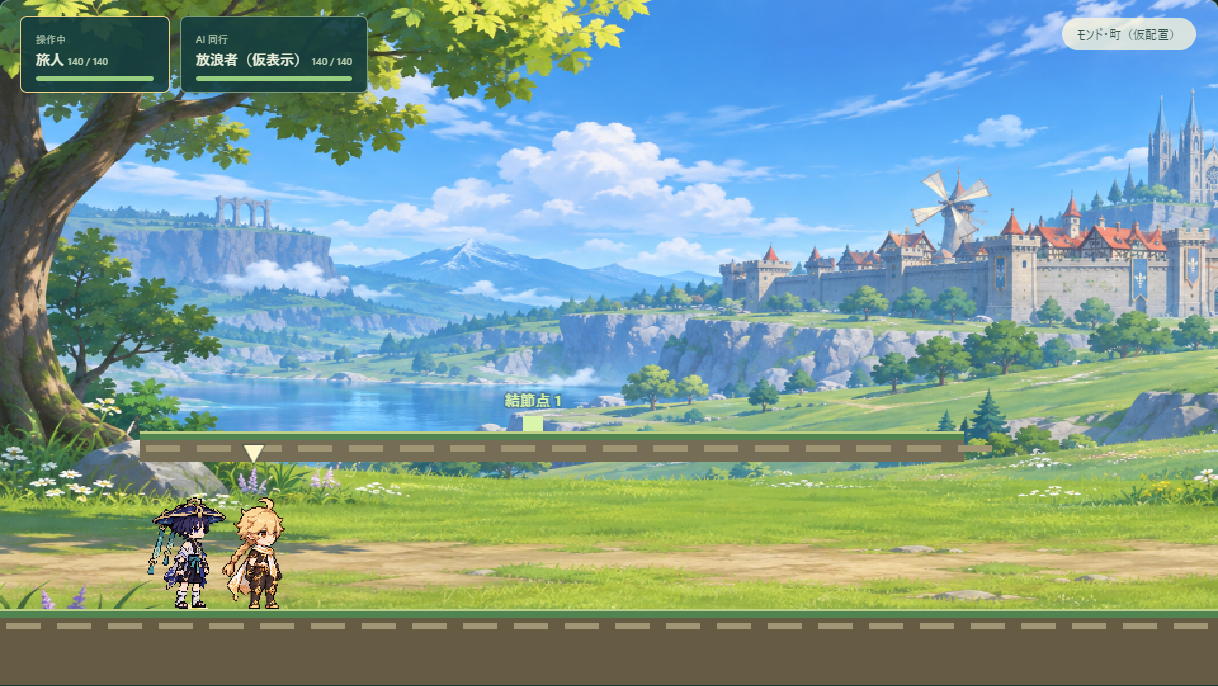
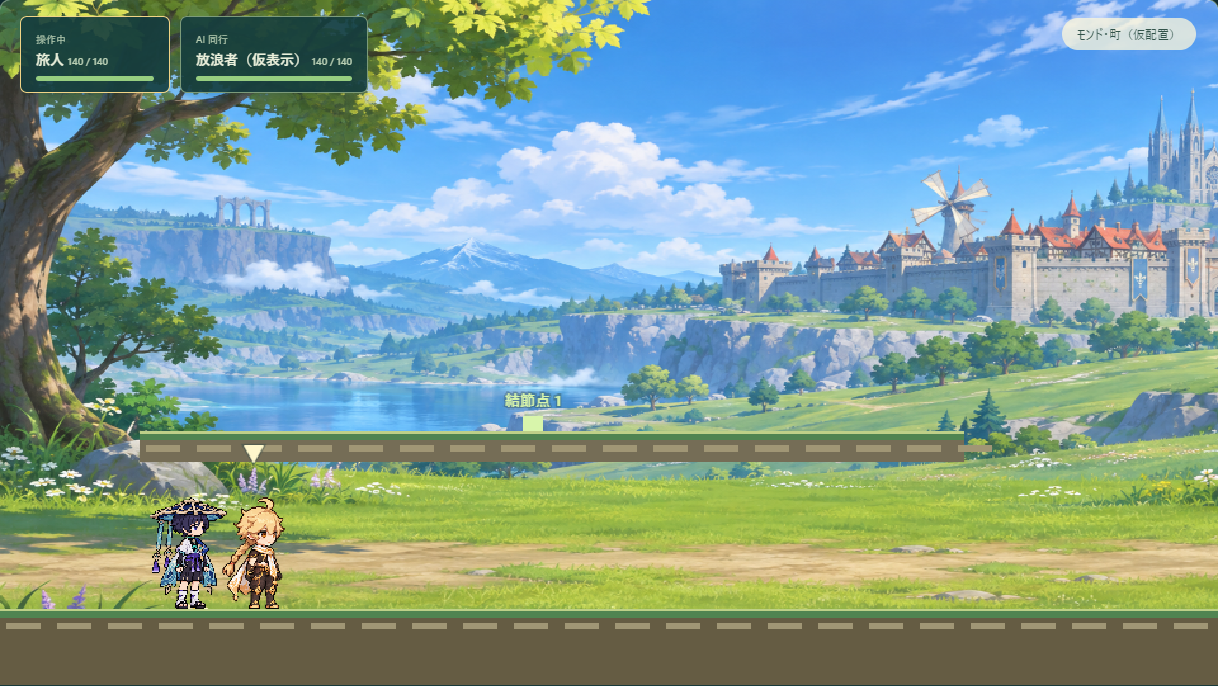
Revise Wanderer costume from illustration and four-view PMX references

Changed region(s): [[0.1248, 0.7347, 0.1872, 0.8878]]

diff --git a/app.js b/app.js
@@ -12,7 +12,7 @@ const inventoryUI=initInventoryUI(a=>actions.push(a));
 const SAVE_KEY='maple-lua-lab.checkpoint.v1';
 $('saveProgress').onclick=()=>{checkpointRequested=true;$('saveStatus').textContent='保存中…'};
 $('loadProgress').onclick=()=>{try{const raw=localStorage.getItem(SAVE_KEY);if(!raw)throw Error('保存データがありません');restoreRequested=JSON.parse(raw);if(!restoreRequested||typeof restoreRequested!=='object')throw Error('保存データを読み取れません');$('saveStatus').textContent='読み込み中…'}catch(e){restoreRequested=null;$('saveStatus').textContent=e.message}};
-const bossImages={};for(const name of [...Array.from({length:4},(_,i)=>'array-part-'+(i+1)+'-source-v1.png'),'wanderer-idle-source-v1.png','emilie-idle-source-v1.png','kachina-idle-source-v1.png','columbina-idle-source-v1.png','mitya-idle-source-v1.png','ayaka-idle-source-v3.png','beidou-idle-source-v3.png','thunder-source-v1.png','array-source-v1.png','maguu-slash-source-v1.png','maguu-stance-source-v1.png','maguu-mask-source-v1.png','maguu-source-v1.png','primo-source-v1.png','oceanid-crane-source-v1.png','oceanid-mallard-source-v1.png','oceanid-ferret-source-v1.png','oceanid-crab-source-v1.png','oceanid-raptor-source-v1.png','oceanid-frog-source-v1.png','oceanid-finch-source-v1.png','oceanid-source-v1.png','oceanid-boar-source-v1.png','geo-shell-source-v1.png','geo-core-source-v1.png','geo-pillar-source-v1.png','electro-shell-source-v1.png','electro-core-source-v1.png','anemo-shell-source-v1.png','anemo-core-source-v1.png','farka-source-v1.png','pyro-regisvine-source-v1.png',...Array.from({length:4},(_,i)=>'farka-actions/0'+(i+1)+'.png')]){const image=new Image();image.src='assets/'+name;await image.decode();bossImages[name]=image;}
+const bossImages={};for(const name of [...Array.from({length:4},(_,i)=>'array-part-'+(i+1)+'-source-v1.png'),'wanderer-idle-source-v2.png','emilie-idle-source-v1.png','kachina-idle-source-v1.png','columbina-idle-source-v1.png','mitya-idle-source-v1.png','ayaka-idle-source-v3.png','beidou-idle-source-v3.png','thunder-source-v1.png','array-source-v1.png','maguu-slash-source-v1.png','maguu-stance-source-v1.png','maguu-mask-source-v1.png','maguu-source-v1.png','primo-source-v1.png','oceanid-crane-source-v1.png','oceanid-mallard-source-v1.png','oceanid-ferret-source-v1.png','oceanid-crab-source-v1.png','oceanid-raptor-source-v1.png','oceanid-frog-source-v1.png','oceanid-finch-source-v1.png','oceanid-source-v1.png','oceanid-boar-source-v1.png','geo-shell-source-v1.png','geo-core-source-v1.png','geo-pillar-source-v1.png','electro-shell-source-v1.png','electro-core-source-v1.png','anemo-shell-source-v1.png','anemo-core-source-v1.png','farka-source-v1.png','pyro-regisvine-source-v1.png',...Array.from({length:4},(_,i)=>'farka-actions/0'+(i+1)+'.png')]){const image=new Image();image.src='assets/'+name;await image.decode();bossImages[name]=image;}
 const bossAtlas=new Image();bossAtlas.src='assets/cryo-regisvine-source-v1.png';
 const atlas=new Image();atlas.src='assets/atlas-transparent.png';
 try{spriteData=await (await fetch('assets/sprites.json')).json()}catch{}

diff --git a/compare.js b/compare.js
@@ -1,7 +1,7 @@
 import {scenery} from './scenery.js';
 const $=id=>document.getElementById(id);
 const data=await(await fetch('assets/variants.json')).json(),variants=data.variants;
-const bossImages={};for(const name of [...Array.from({length:4},(_,i)=>'array-part-'+(i+1)+'-source-v1.png'),'wanderer-idle-source-v1.png','emilie-idle-source-v1.png','kachina-idle-source-v1.png','columbina-idle-source-v1.png','mitya-idle-source-v1.png','ayaka-idle-source-v3.png','beidou-idle-source-v3.png','thunder-source-v1.png','array-source-v1.png','maguu-slash-source-v1.png','maguu-stance-source-v1.png','maguu-mask-source-v1.png','maguu-source-v1.png','primo-source-v1.png','oceanid-crane-source-v1.png','oceanid-mallard-source-v1.png','oceanid-ferret-source-v1.png','oceanid-crab-source-v1.png','oceanid-raptor-source-v1.png','oceanid-frog-source-v1.png','oceanid-finch-source-v1.png','oceanid-source-v1.png','oceanid-boar-source-v1.png','geo-shell-source-v1.png','geo-core-source-v1.png','geo-pillar-source-v1.png','electro-shell-source-v1.png','electro-core-source-v1.png','anemo-shell-source-v1.png','anemo-core-source-v1.png','farka-source-v1.png','pyro-regisvine-source-v1.png',...Array.from({length:4},(_,i)=>'farka-actions/0'+(i+1)+'.png')]){const image=new Image();image.src='assets/'+name;await image.decode();bossImages[name]=image;}
+const bossImages={};for(const name of [...Array.from({length:4},(_,i)=>'array-part-'+(i+1)+'-source-v1.png'),'wanderer-idle-source-v2.png','emilie-idle-source-v1.png','kachina-idle-source-v1.png','columbina-idle-source-v1.png','mitya-idle-source-v1.png','ayaka-idle-source-v3.png','beidou-idle-source-v3.png','thunder-source-v1.png','array-source-v1.png','maguu-slash-source-v1.png','maguu-stance-source-v1.png','maguu-mask-source-v1.png','maguu-source-v1.png','primo-source-v1.png','oceanid-crane-source-v1.png','oceanid-mallard-source-v1.png','oceanid-ferret-source-v1.png','oceanid-crab-source-v1.png','oceanid-raptor-source-v1.png','oceanid-frog-source-v1.png','oceanid-finch-source-v1.png','oceanid-source-v1.png','oceanid-boar-source-v1.png','geo-shell-source-v1.png','geo-core-source-v1.png','geo-pillar-source-v1.png','electro-shell-source-v1.png','electro-core-source-v1.png','anemo-shell-source-v1.png','anemo-core-source-v1.png','farka-source-v1.png','pyro-regisvine-source-v1.png',...Array.from({length:4},(_,i)=>'farka-actions/0'+(i+1)+'.png')]){const image=new Image();image.src='assets/'+name;await image.decode();bossImages[name]=image;}
 const bossAtlas=new Image();bossAtlas.src='assets/cryo-regisvine-source-v1.png';await bossAtlas.decode();
 const atlas=new Image();atlas.src='assets/atlas-transparent.png';await atlas.decode();
 const names={png:'原画像 PNG',...Object.fromEntries(Object.entries(variants).map(([k,v])=>[k,v.label]))};

diff --git a/render_model_reference.py b/render_model_reference.py
@@ -28,7 +28,7 @@ for obj in meshes:
     overlay_slots = set()
     for i, mat in enumerate(obj.data.materials):
         tex = mat.node_tree.nodes.get('mmd_base_tex') if mat and mat.node_tree else None
-        if tex and tex.image and tex.image.name == 'sph.png':
+        if tex and tex.image and tex.image.name in {'sph.png', 'spa_h.png'}:
             overlay_slots.add(i)
     # Coplanar additive shine faces obscure the underlying hair in Cycles.
     # Omit them only in this transient inspection scene; source PMX is untouched.
@@ -48,7 +48,7 @@ for mat in bpy.data.materials:
     tex.image.alpha_mode = 'CHANNEL_PACKED'
     textures.append({'material': mat.name, 'image': tex.image.name, 'size': list(tex.image.size)})
     output = next(n for n in nodes if n.type == 'OUTPUT_MATERIAL')
-    if tex.image.name == 'sph.png':
+    if tex.image.name in {'sph.png', 'spa_h.png'}:
         # Separate additive shine overlay must not become an opaque black shell.
         transparent = nodes.new('ShaderNodeBsdfTransparent')
         links.new(transparent.outputs[0], output.inputs['Surface'])
